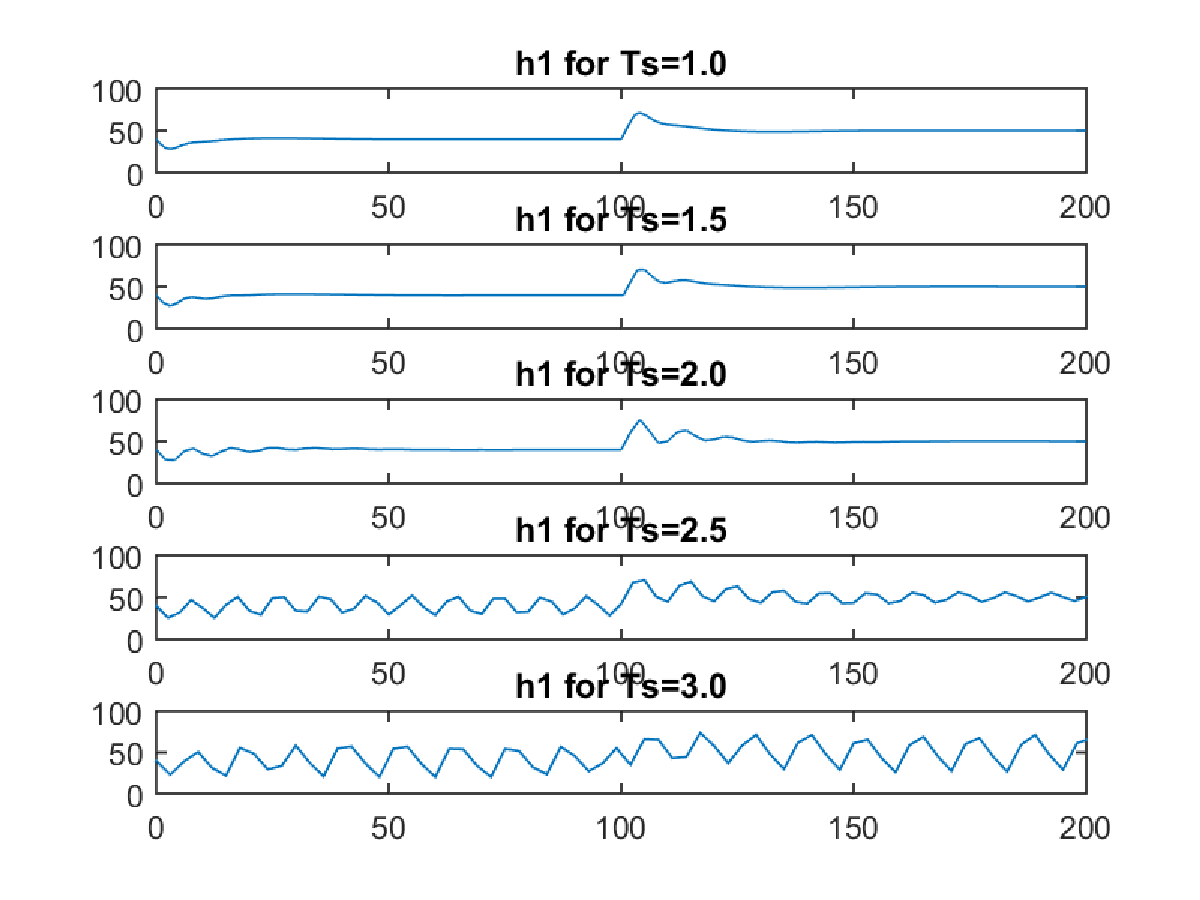
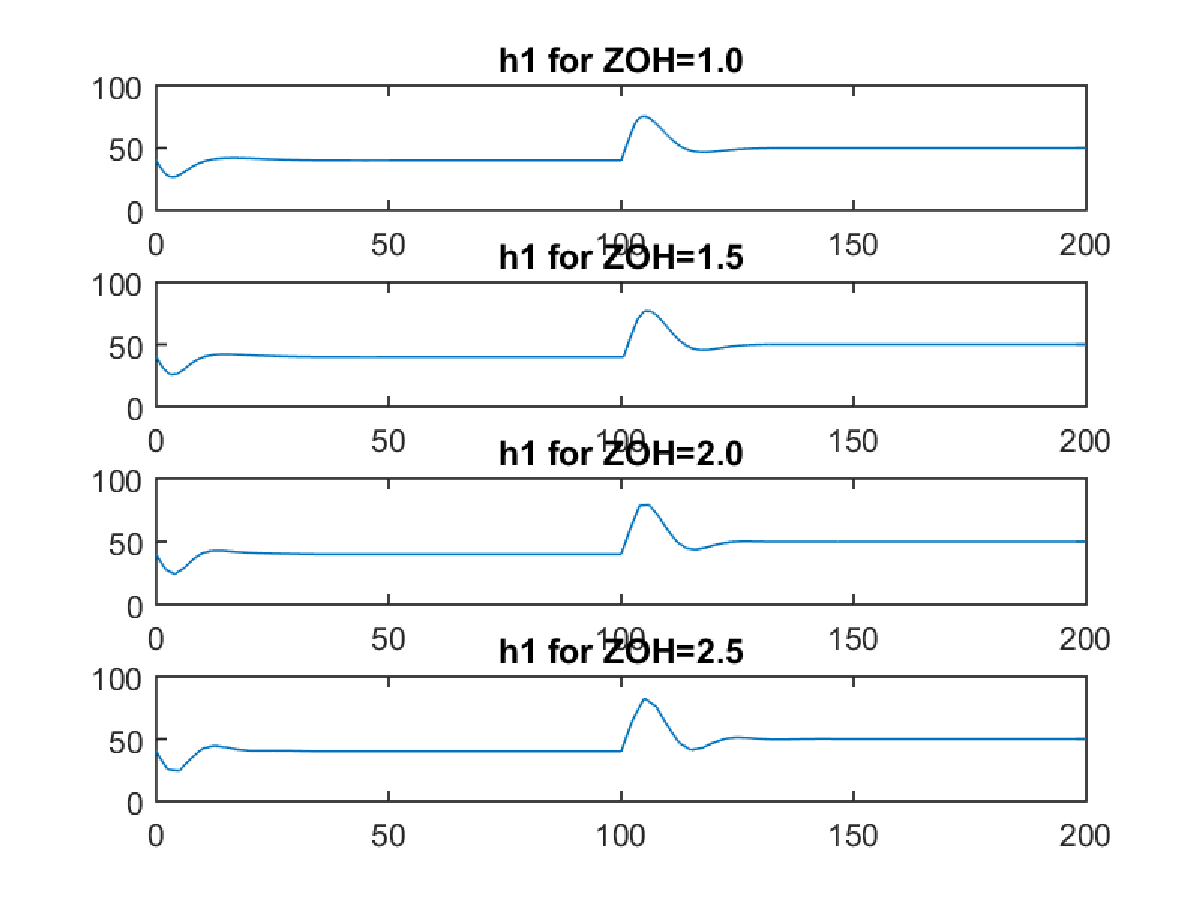
q7 and q8 now gives nice printouts

Changed region(s): [[0.0617, 0.0311, 0.925, 0.9644]]

diff --git a/Homework1/Code/pid_design.m b/Homework1/Code/pid_design.m
@@ -32,10 +32,11 @@ zeta = 0.8;
 
 F = K_pid*(1 + 1/(Ti*s) + Td*N*s/(N + s)); % Transfer function for the controller
 
+% Define closed and open system equations
 Go = F*G;
 Gc = F*G/(1 + F*G); % Closed system
-ZOH = 0.92*4;
 
+% Info for continuous system
 figure
 step(Gc)
 title('Step function of closed system')
@@ -45,37 +46,52 @@ figure
 pzmap(Gc)
 stepinfo(Gc)
 
-sim('tanks')
-figure
-subplot(4,1,1)
-plot(ref.Time, ref.Data)
-title('Ref')
-subplot(4,1,2)
-plot(h1.Time, h1.Data)
-title('h1')
-subplot(4,1,3)
-plot(h2.Time, h2.Data)
-title('h2')
-subplot(4,1,4)
-plot(pump.Time, pump.Data)
-title('Pump')
+% Simulate the continuous system with ZOH for q7
+% Figure 200: h1
+% Figure 201: h2
+% Figure 202: pump
+ZOH_all = 1:0.5:2.5;
 
-%%
-close all
+for i = 1:length(ZOH_all)
+    ZOH = ZOH_all(i);
+    % Simulate system
+    sim('tanks')
+    % h1
+    figure(200)
+    subplot(length(ZOH_all), 1, i)
+    plot(h1.Time, h1.Data)
+    title(sprintf('h1 for ZOH=%1.1f', ZOH))
+    % h2
+    figure(201)
+    subplot(length(ZOH_all), 1, i)
+    plot(h2.Time, h2.Data)
+    title(sprintf('h2 for ZOH=%1.1f', ZOH))
+    % pump
+    figure(202)
+    subplot(length(ZOH_all),1,i)
+    plot(pump.Time, pump.Data)
+    title(sprintf('Pump for ZOH=%1.1f', ZOH))
+end
+% Send figures to images folder
+print(200, '-dpng', '.\images\h1_samplings')
+print(201, '-dpng', '.\images\h2_samplings')
+print(202, '-dpng', '.\images\pump_samplings')
+
+% close all
 %%%%%%%%%%%%%%%%%%%%%%%%%%%%%%%%%%%%%%%%%%%%%%%%%%%
 % Digital Control design
 %%%%%%%%%%%%%%%%%%%%%%%%%%%%%%%%%%%%%%%%%%%%%%%%%%%
  Ts_all = [1:0.5:3]; % Sampling time
-% Simulate and plot for several sampling times. 
+% Simulate and plot for several sampling times for q8 
 % Figure 100: h1
 % Figure 101: h2
-% Figure 102: h3
+% Figure 102: pump
 
 % % Discretize the continous controller, save it in state space form
 for i = 1:length(Ts_all)
-    Ts = Ts_all(i)
-    F_dg = c2d(F, Ts, 'zoh')
-    [Ad,Bd,Cd,Dd] = tf2ss(F_dg.num{1}, F_dg.den{1})
+    Ts = Ts_all(i);
+    F_dg = c2d(F, Ts, 'zoh');
+    [Ad,Bd,Cd,Dd] = tf2ss(F_dg.num{1}, F_dg.den{1});
     % Simulate system
     sim('tanks_discrete')
     % h1
@@ -96,20 +112,17 @@ for i = 1:length(Ts_all)
     
 end
 % Send figures to images folder
-print(100, '-dpng', '.\images\h1_samplings')
-print(101, '-dpng', '.\images\h2_samplings')
-print(102, '-dpng', '.\images\pump_samplings')
+print(100, '-dpng', '.\images\h1_samplings_ss')
+print(101, '-dpng', '.\images\h2_samplings_ss')
+print(102, '-dpng', '.\images\pump_samplings_ss')
 
-
-%%
 %%%%%%%%%%%%%%%%%%%%%%%%%%%%%%%%%%%%%%%%%%%%%%%%%%%
 % Discrete Control design
 %%%%%%%%%%%%%%%%%%%%%%%%%%%%%%%%%%%%%%%%%%%%%%%%%%%
 
-clc; %Remove this
-
 Gd = c2d(G, Ts, 'zoh') % Sampled system model
 Fd = 1;% c2d(F, Ts, 'zoh'); % Transfer function for discrete designed controller
+
 
 %Gets and prints ai and bi for q 12
 fprintf('Question 12\n\n')
